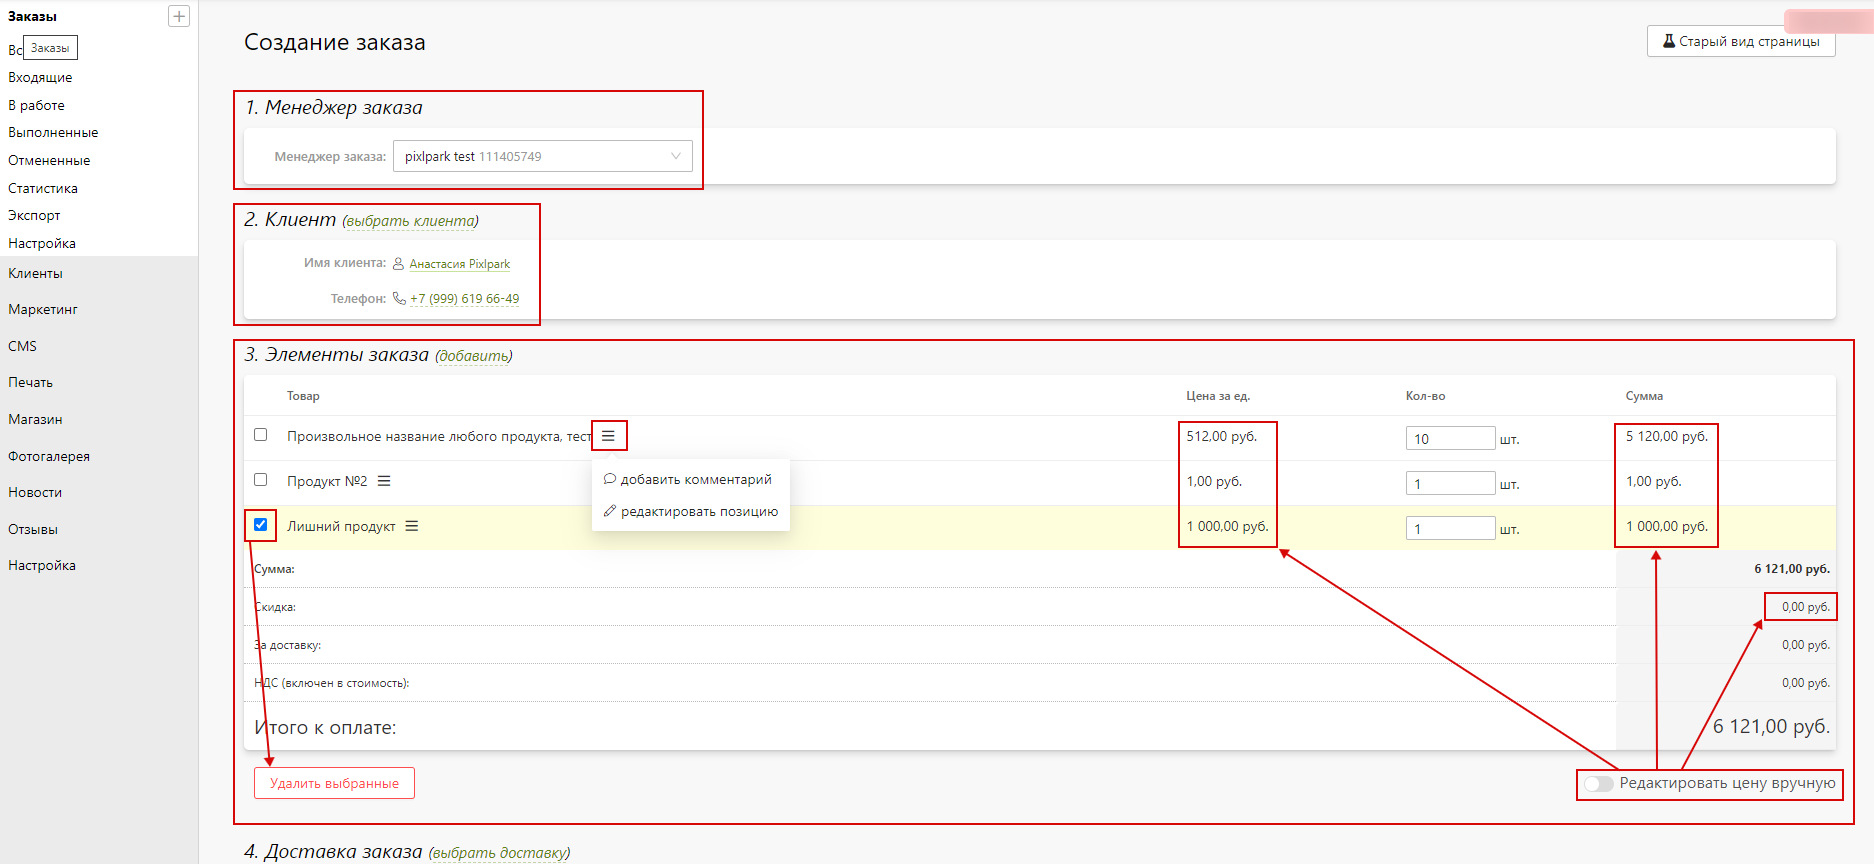
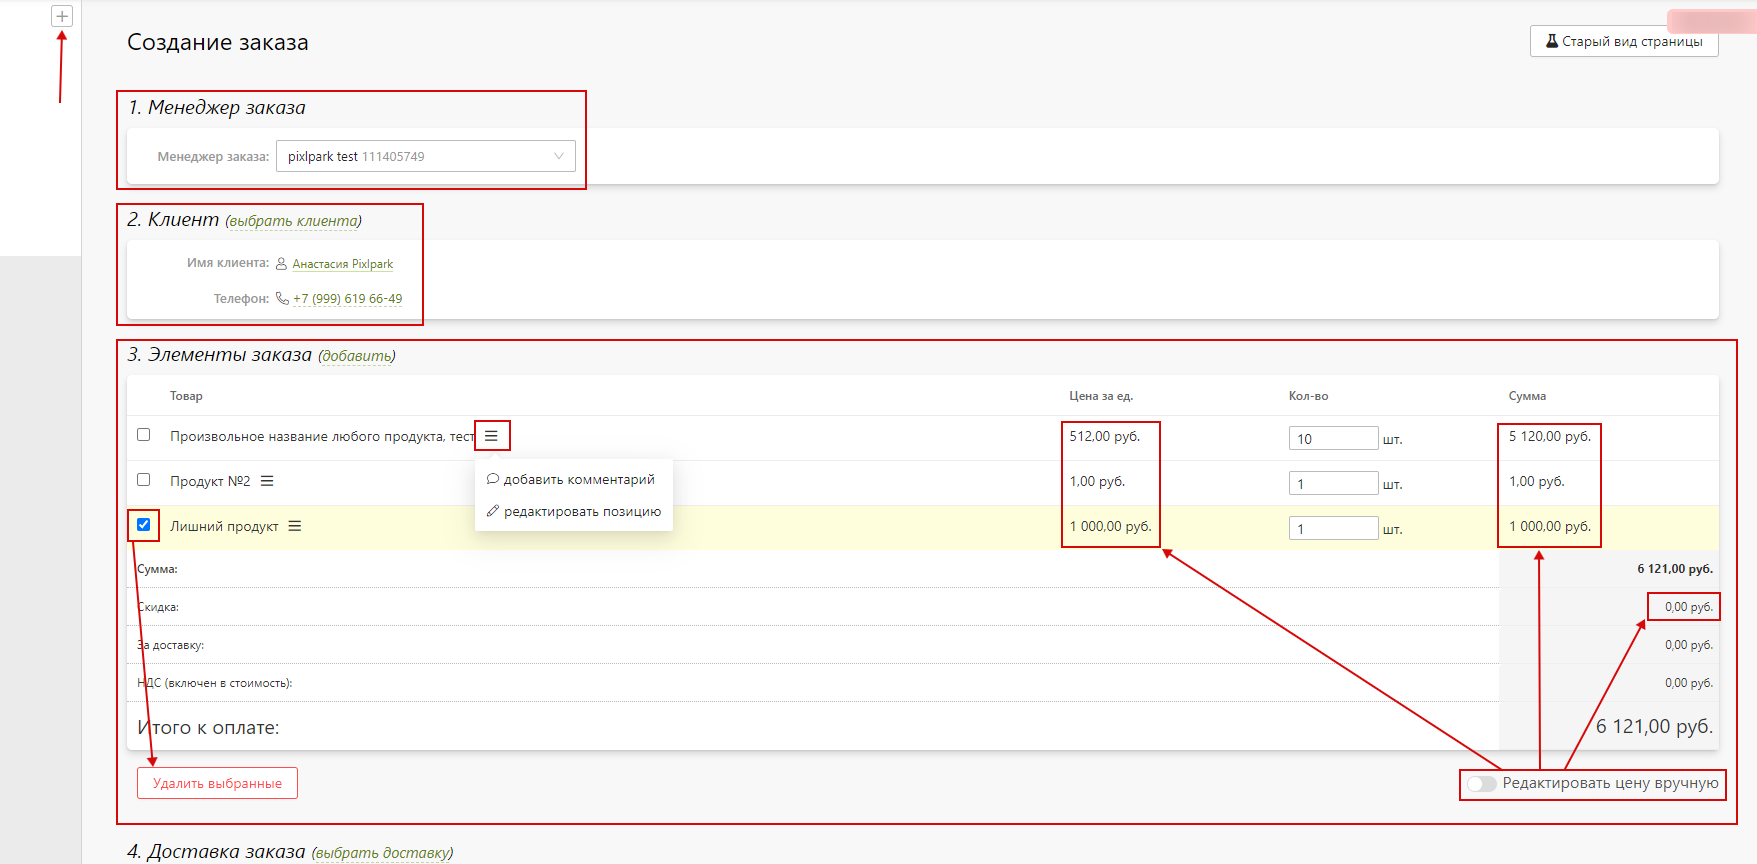
Создание заказа

diff --git a/docs/orders/create.md b/docs/orders/create.md
@@ -1,6 +1,7 @@
 # Создание заказа
 
 ![](../_media/order/order21.png ':size=70%')
+![](../_media/order/order26.png ':size=70%')
 ## 1. Менеджер заказа
 * Выбор сотрудника, который будет являться менеджером данного заказа. По умолчанию им является текущий сотрудник, работающий с панелью управления.
 
@@ -21,19 +22,23 @@
 * Для позиций с товарами категории печати можно также запустить онлайн-редактор и калькулятор.
 * При выделенных позициях становится активна кнопка "Удалить выбранные".
 
-## Доставка заказа
+## 4. Доставка заказа
+![](../_media/order/order27.png ':size=50%')
 * Выбор способа доставки заказа, которая может быть точкой выдачи, транспортной компанией или курьерской службой.
 
-## Оплата заказа
+## 5. Оплата заказа
 * Выбор статуса оплаты, источника платежа и суммы предоплаты в случае частично оплаченного заказа.
 
-## Тип заказа
+## 6. Тип заказа
 * Выбор типа заказа:
     + Обычный заказ.
     + Коммерческое предложение.
 
-## Дополнительные файлы
+## 7. Дополнительные файлы
 * Загрузка дополнительных файлов клиента.
 
-## Дата готовности
+## 8. Дата готовности
 * Задание даты готовности заказа.
+
+## 9. Сумма заказа
+* Для завершения оформления заказа нажмите кнопку "Создать заказ".
